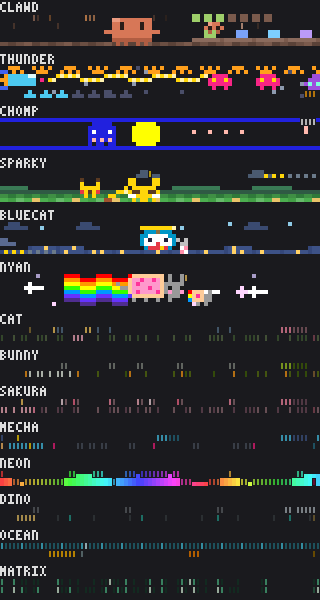
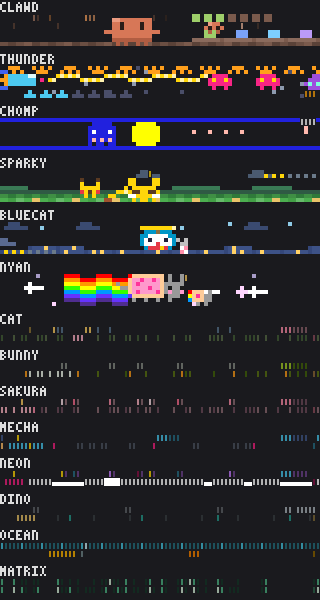
showtime: neon theme — reads well, all layers move, no jumps; neon-tube face ▐◉‿◉▌ at the left with a rainbow equalizer running the rest of the bottom row and swelling per act (slow swell thinking, fast pulse on tool, loud on say, low hum waiting), hue rolling every frame and the tube buzzing dim no

Changed region(s): [[0.0, 0.78, 1.0, 0.81]]

diff --git a/showtime/hooks/themes/neon.ts b/showtime/hooks/themes/neon.ts
@@ -1,45 +1,185 @@
 // Theme: neon. Its scene, its words and its pet.
-import { blank, hsl, mod, put } from '../cells'
+//
+// The scene: a neon-tube face `▐◉‿◉▌` glows at the left of the bottom row and an equalizer of
+// rainbow bars runs the rest of it, swelling with what the turn is doing: a slow swell thinking, a
+// fast pulse while a tool runs, loud while saying, a low hum waiting. The bars' hue rolls every
+// frame and the tube buzzes (dims for a frame) now and then. Over the face's mouth hangs a sign (a
+// braille spinner thinking, the tool's mark, `?`, a note, a moon phase waiting) that strikes in over
+// four frames after the act changes while the tube flickers and the eyes reopen. Sparks drift left
+// along the top row at two speeds, behind the sign and behind the row of bulbs for tasks at the top
+// right, `done` of them lit, left of the agent figures (withReactions). A failed test kills the
+// sign: grey face with crossed eyes, flat grey bars, `×`, and the shake; a passed test glows the face
+// white and drives every bar to the top under a spark rain and `★`; a commit turns the face and the
+// bars gold under the spark burst and shows `✓`; bash strobes the bars every fourth frame, doubles
+// the hue roll and streaks the sparks; a new agent gets a spark greeting.
+//
+// Motion rules (tests/scenes.test.ts): every frame differs somewhere, and no run of cells may start
+// more than one column from a run start in the frame before (same or adjacent row). The face and
+// the equalizer stay put, and a bar never drops to blank, so the bottom row is two still runs. The
+// sign sits two columns from the face's start, so it is never blank (it dims instead): a blank that
+// came back would be a new start two columns from any old one. Sparks drift left a column a frame
+// or every other frame: a run moving left may pass behind a still one (it comes out contiguous with
+// it, a column from its start), where one moving right would reappear two columns past its end.
+import { blank, frame, hsl, mod, noise, put } from '../cells'
 import type { Grid } from '../cells'
 import { CLAWD_SHAPE } from '../pets'
 import type { PetArt } from '../pets'
 import { withReactions } from '../reactions'
-import type { Signals, Theme } from '../themes'
+import type { Act, Signals, Theme, ToolKind } from '../themes'
+
+const PINK = '#f72585'
+const MAGENTA = '#b5179e'
+const VIOLET = '#c77dff'
+const CYAN = '#4cc9f0'
+const GOLD = '#ffd60a'
+const AMBER = '#ffb703'
+const GREEN = '#9ece6a'
+const GREY = '#9a9a9a'
+const WHITE = '#ffffff'
+const PALETTE = [PINK, MAGENTA, '#7209b7', CYAN, GOLD]
+/** Colours bright enough to roll through the bulbs and the sparks. */
+const ROLL = [PINK, VIOLET, CYAN, GOLD]
+/** A bar's heights, lowest first; a bar is never blank. */
+const BARS = '▁▂▃▄▅▆▇█'
+const SPARKS = ['✦', '✧', '·', '+']
+const SPINNER = ['⠋', '⠙', '⠹', '⠸', '⠼', '⠴', '⠦', '⠧', '⠇', '⠏']
+/** The sign striking in over the four frames after the act or tool changes; the fourth is the new sign, dim. */
+const GROW_FRAMES = ['·', '∘', '○']
+/** `IDLE_SIGNALS.actAge`: an age this large means no change is known. */
+const IDLE_AGE = 999
+/** `▐◉‿◉▌`: the face's left edge, its width, the sign's column (over the mouth) and the first bar. */
+const FACE_X = 1
+const FACE_W = 5
+const SIGN_X = FACE_X + 2
+const EQ_X = FACE_X + FACE_W + 1
+const FAIL_FRAMES = 20
+const PASS_FRAMES = 16
+const COMMIT_FRAMES = 16
+/** Per act: the eye cycle (four frames each), the mouth, the sign cycle and its frames per step, its colour,
+ * and the equalizer's floor, swing (in bar heights, 0–7) and speed. */
+type ActArt = {
+  eye: readonly string[]; mouth: string; sign: readonly string[]; rate: number; c: string
+  base: number; amp: number; speed: number
+}
+const ACTS: Record<Act, ActArt> = {
+  think: { eye: ['◉', '◉', '◎', '◎'], mouth: '‿', sign: SPINNER, rate: 2, c: CYAN, base: 0, amp: 4, speed: 0.25 },
+  tool: { eye: ['◉'], mouth: '▂', sign: ['✦'], rate: 4, c: GOLD, base: 1, amp: 6, speed: 0.6 },
+  ask: { eye: ['◎'], mouth: '○', sign: ['?'], rate: 4, c: GOLD, base: 0, amp: 3, speed: 0.3 },
+  say: { eye: ['◕'], mouth: '▽', sign: ['♪', '♫'], rate: 4, c: PINK, base: 1, amp: 6.5, speed: 0.45 },
+  wait: { eye: ['○'], mouth: '_', sign: ['◐', '◓', '◑', '◒'], rate: 4, c: VIOLET, base: 0, amp: 1.5, speed: 0.15 },
+}
+const TOOL_SIGN: Record<ToolKind, string> = {
+  bash: '$', edit: '✎', read: '≡', search: '⌕', agent: 'ᗣ', web: '◎', other: '✦',
+}
+
+/** A bar's height at column `x`: two waves summed, swung and floored per act; the top under a passed test,
+ * the floor under a failed one. */
+function barHeight(x: number, t: number, s: Signals, failing: boolean, passing: boolean): number {
+  if (failing) return 0
+  if (passing) return 6 + (mod(x + s.newsAge, 4) < 2 ? 1 : 0)
+  const act = ACTS[s.act]
+  const v = (Math.sin(x * 0.33 + t * act.speed) + Math.sin(x * 0.11 - t * act.speed * 0.6) + 2) / 4
+  return Math.max(0, Math.min(7, Math.round(act.base + v * act.amp)))
+}
 
 export function neonScene(t: number, w: number, s: Signals): Grid {
   const g = blank(w, 2)
-  const blocks = ' ▁▂▃▄▅▆▇█'
-  for (let x = 0; x < w; x++) {
-    const v = (Math.sin(x * 0.33 + t * 0.35) + Math.sin(x * 0.11 - t * 0.21) + 2) / 4
-    const h = Math.round(v * 16)
-    const c = hsl(mod(x * 7 + t * 9, 360), 0.95, 0.62)
-    put(g, x, 1, blocks[Math.min(8, h)]!, { c })
-    if (h > 8) put(g, x, 0, blocks[h - 8]!, { c })
+  const failing = s.news === 'testFail' && s.newsAge < FAIL_FRAMES
+  const passing = s.news === 'testPass' && s.newsAge < PASS_FRAMES
+  const committing = s.news === 'commit' && s.newsAge < COMMIT_FRAMES
+  const bash = s.act === 'tool' && s.tool === 'bash'
+  const act = ACTS[s.act]
+  // Layer 1: the equalizer, a still run of bars whose heights and hue roll; gold while a commit lands,
+  // a white strobe every fourth frame while bash runs.
+  const strobe = bash && mod(t, 4) === 0
+  for (let x = EQ_X; x < w; x++) {
+    const rainbow = hsl(mod(x * 7 + t * (bash ? 18 : 9), 360), 0.95, 0.62)
+    const gold = frame([GOLD, AMBER], x + (s.newsAge >> 1))
+    const c = failing ? GREY : committing ? gold : strobe ? WHITE : rainbow
+    put(g, x, 1, BARS[barHeight(x, t, s, failing, passing)]!, { c, b: strobe || passing, d: failing })
   }
-  return withReactions(g, t, s, '#f72585')
+  // Layer 2: sparks drifting left along the top row, half of them at half speed; grey while a test
+  // fails, streaking while bash runs.
+  for (let i = 0; i < Math.max(1, Math.floor(w / 10)); i++) {
+    const x = mod(Math.floor(noise(i + 11) * w * 2) - (i % 2 ? t : t >> 1), w)
+    const style = { c: failing ? GREY : frame(ROLL, i), d: failing || i % 2 === 0 }
+    put(g, x, 0, frame(SPARKS, (t >> 3) + i), style)
+    if (bash) put(g, x + 1, 0, '·', { c: VIOLET, d: true })
+  }
+  // A passed test: sparks rain along the top row, drifting left, fading over the last six frames.
+  if (passing) {
+    for (let x = 0; x < w; x++) {
+      if (mod(x + s.newsAge, 5) !== 0 || x === SIGN_X) continue
+      const c = frame([GOLD, WHITE, CYAN], Math.floor((x + s.newsAge) / 5))
+      put(g, x, 0, s.newsAge < 10 ? '✦' : '·', { c, d: s.newsAge >= 10 })
+    }
+  }
+  // Layer 3: the face. Its eyes cycle per act and blink every sixteen frames; after the act or tool
+  // changes the tube strikes: eyes shut for two frames and the tube dim on the odd frames of four. It
+  // buzzes (dims) for a frame every thirteen.
+  const age = Math.min(s.actAge, s.toolAge)
+  const since = age < IDLE_AGE ? age : t
+  const blink = mod(t, 16) < 2 || age < 2
+  const buzz = mod(t, 13) === 7 || (age < 4 && mod(age, 2) === 1)
+  const eye = failing ? '×' : passing ? '◕' : blink ? '-' : frame(act.eye, t >> 2)
+  const mouth = failing ? '▂' : passing ? '‿' : act.mouth
+  const faceC = failing ? GREY : passing ? frame([WHITE, CYAN], t >> 1) : committing ? GOLD : buzz ? MAGENTA : PINK
+  put(g, FACE_X, 1, `▐${eye}${mouth}${eye}▌`, { c: faceC, b: !buzz && !failing, d: buzz || failing })
+  // The sign over the mouth: strikes in over four frames after the act or tool changes, then cycles
+  // from that change (from `t` when none is known); `×` on a failed test, `★` on a passed one, `✓` on
+  // a commit. Never blank: `?` dims on its off beat instead.
+  let sign = s.act === 'tool' && s.tool ? TOOL_SIGN[s.tool] : frame(act.sign, Math.floor(since / act.rate))
+  if (age < GROW_FRAMES.length) sign = GROW_FRAMES[age]!
+  if (failing) sign = '×'
+  else if (passing) sign = '★'
+  else if (committing) sign = '✓'
+  const dimSign = age === GROW_FRAMES.length || (s.act === 'ask' && mod(t, 8) >= 4) || buzz
+  const signC = failing ? GREY : passing ? GOLD : committing ? GREEN : act.c
+  put(g, SIGN_X, 0, sign, { c: signC, b: !dimSign && s.act !== 'think', d: dimSign })
+  // Tasks: a row of bulbs at the top right, left of the agents, `done` of them lit (floor-scaled when
+  // more tasks than fit); the newest twinkles, and all of them roll colours when the last lands.
+  const agentsW = 2 * Math.min(s.agents, 4)
+  const count = Math.min(s.total, Math.floor(w / 4), Math.max(0, w - 2 - agentsW))
+  const x0 = w - 1 - agentsW - count
+  const lit = s.total > count ? Math.floor((s.done * count) / s.total) : s.done
+  const allDone = s.done >= s.total && s.total > 0 && s.doneAge < 16
+  for (let i = 0; i < count; i++) {
+    const on = i < lit
+    const newest = on && i === lit - 1 && s.doneAge < 12
+    const glyph = newest && mod(t, 4) < 2 ? '✦' : on ? '●' : '○'
+    const c = allDone ? frame(ROLL, i + (s.doneAge >> 1)) : glyph === '✦' ? GOLD : on ? CYAN : VIOLET
+    put(g, x0 + i, 0, glyph, { c, b: on, d: !on })
+  }
+  // A new agent: a spark on the other row from its figure for eight frames.
+  if (s.agents > 0 && s.agentsAge < 8) {
+    const i = Math.min(s.agents, 4) - 1
+    const row = mod(t + i * 3, 8) < 4 ? 0 : 1
+    put(g, w - 2 - i * 2, row, frame(['✦', '✧'], s.agentsAge >> 1), { c: CYAN, b: true })
+  }
+  return withReactions(g, t, s, PINK)
 }
 
 /** No pet of its own: Clawd's shape in this theme's color. */
-export const PET: PetArt = { ...CLAWD_SHAPE, colors: { O: '#f72585', L: '#f72585', D: '#f72585' }, lid: '#f72585' }
+export const PET: PetArt = { ...CLAWD_SHAPE, colors: { O: PINK, L: PINK, D: PINK }, lid: PINK }
 
 export const NEON: Theme = {
   name: 'neon',
-    rows: 2,
-    sleep: '◢◤ zZ',
-    color: '#f72585',
-    accent: '#4cc9f0',
-    isRainbow: true,
-    sprite: {
-      think: ['⠋', '⠙', '⠹', '⠸', '⠼', '⠴', '⠦', '⠧', '⠇', '⠏'].map(c => `${c} ◢◤◢◤`),
-      tool: ['▰▱▱▱▱', '▰▰▱▱▱', '▱▰▰▱▱', '▱▱▰▰▱', '▱▱▱▰▰', '▱▱▱▱▰'],
-      say: ['▁▃▅▇▅▃', '▃▅▇▅▃▁', '▅▇▅▃▁▃', '▇▅▃▁▃▅', '▅▃▁▃▅▇', '▃▁▃▅▇▅'],
-      wait: ['◐ ◆', '◓ ◇', '◑ ◆', '◒ ◇'],
-    },
-    happy: '✦ ◢◤ ✦',
-    sad: '▁▁▁',
-    dead: '✕ ◢◤ ✕',
-    confetti: ['✦', '✧', '+', '·', '◆'],
-    palette: ['#f72585', '#b5179e', '#7209b7', '#4cc9f0', '#ffd60a'],
-    scene: neonScene,
+  rows: 2,
+  sleep: '◢◤ zZ',
+  color: PINK,
+  accent: CYAN,
+  isRainbow: true,
+  sprite: {
+    think: SPINNER.map(c => `${c} ◢◤◢◤`),
+    tool: ['▰▱▱▱▱', '▰▰▱▱▱', '▱▰▰▱▱', '▱▱▰▰▱', '▱▱▱▰▰', '▱▱▱▱▰'],
+    say: ['▁▃▅▇▅▃', '▃▅▇▅▃▁', '▅▇▅▃▁▃', '▇▅▃▁▃▅', '▅▃▁▃▅▇', '▃▁▃▅▇▅'],
+    wait: ['◐ ◆', '◓ ◇', '◑ ◆', '◒ ◇'],
+  },
+  happy: '✦ ◢◤ ✦',
+  sad: '▁▁▁',
+  dead: '✕ ◢◤ ✕',
+  confetti: ['✦', '✧', '+', '·', '◆'],
+  palette: PALETTE,
+  scene: neonScene,
   pet: PET,
 }

diff --git a/showtime/tests/scenes.test.ts b/showtime/tests/scenes.test.ts
@@ -7,7 +7,7 @@ import type { Act, NewsKind, Signals } from '../hooks/themes'
 const ACTS: Act[] = ['think', 'tool', 'ask', 'say']
 const NEWS: NewsKind[] = ['testPass', 'testFail', 'commit']
 /** Themes that meet the motion rules already (each polish task adds its own). */
-const POLISHED = new Set<string>(['clawd', 'thunder', 'chomp', 'sparky', 'bluecat', 'nyan', 'cat', 'bunny', 'sakura', 'mecha'])
+const POLISHED = new Set<string>(['clawd', 'thunder', 'chomp', 'sparky', 'bluecat', 'nyan', 'cat', 'bunny', 'sakura', 'mecha', 'neon'])
 
 function sig(over: Partial<Signals>): Signals {
   return { ...IDLE_SIGNALS, ...over }
